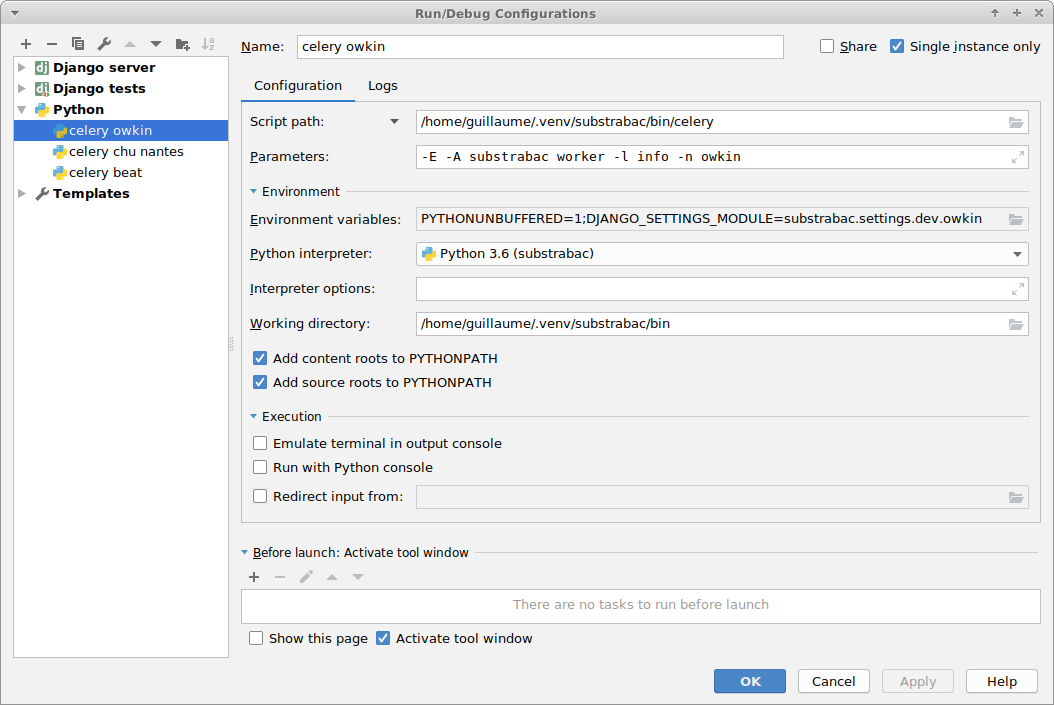
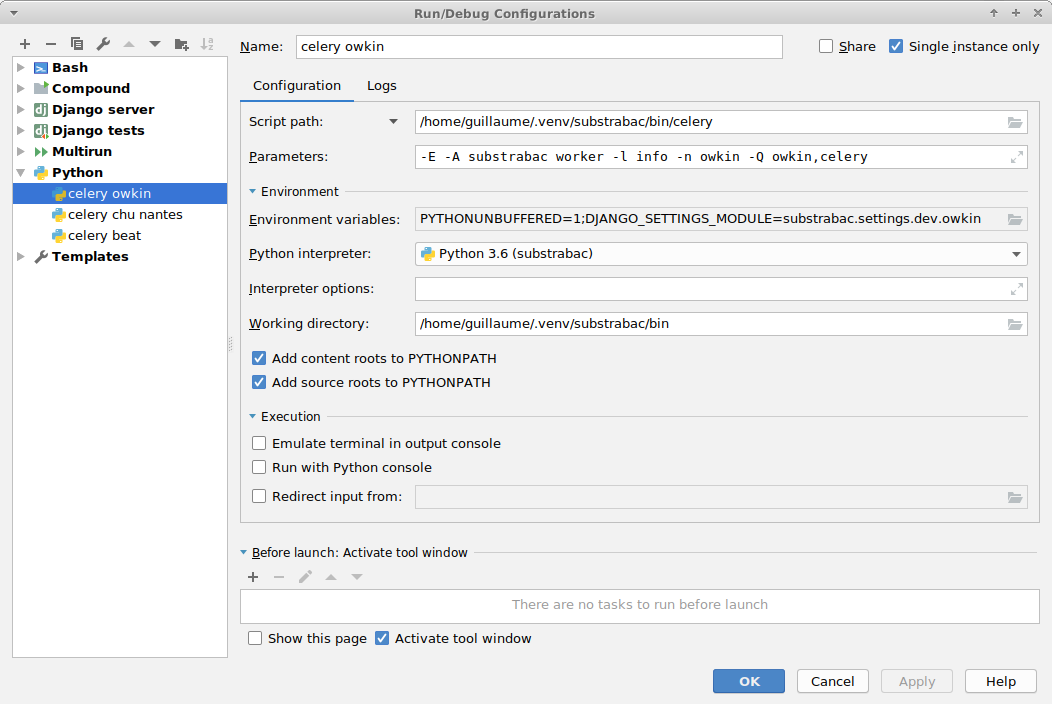
Update celery config

diff --git a/README.md b/README.md
@@ -94,8 +94,8 @@ Execute this command in the `substrabac/substrabac` folder.
 Note the use of the development settings.
 
 ```shell
-DJANGO_SETTINGS_MODULE=substrabac.settings.dev.owkin celery -E -A substrabac worker -l info -B -n owkin
-DJANGO_SETTINGS_MODULE=substrabac.settings.dev.chunantes celery -E -A substrabac worker -l info -B -n chunantes
+DJANGO_SETTINGS_MODULE=substrabac.settings.dev.owkin celery -E -A substrabac worker -l info -B -n owkin -Q owkin,celery
+DJANGO_SETTINGS_MODULE=substrabac.settings.dev.chunantes celery -E -A substrabac worker -l info -B -n chunantes -W chu-nantes,celery
 ```
 
  Note that you should run them NOT at the same time as we do not set different host and port right now.
